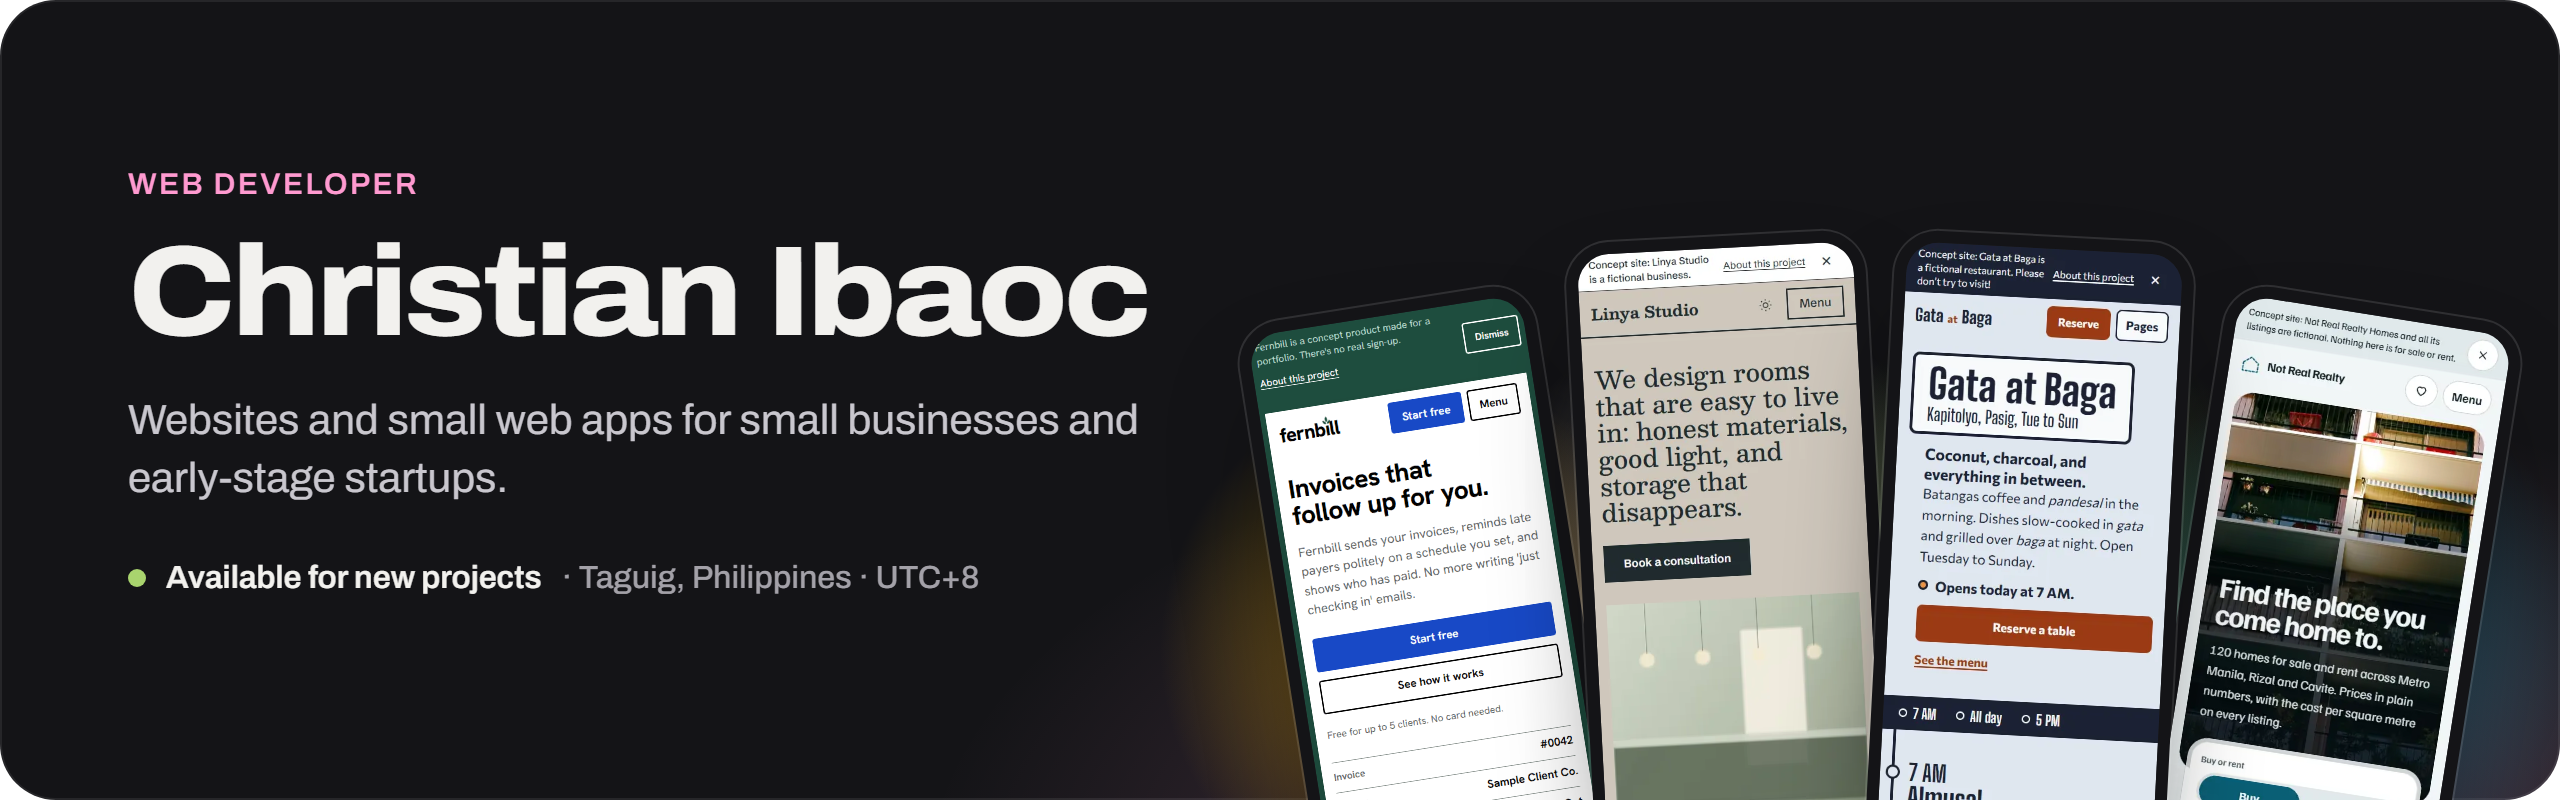
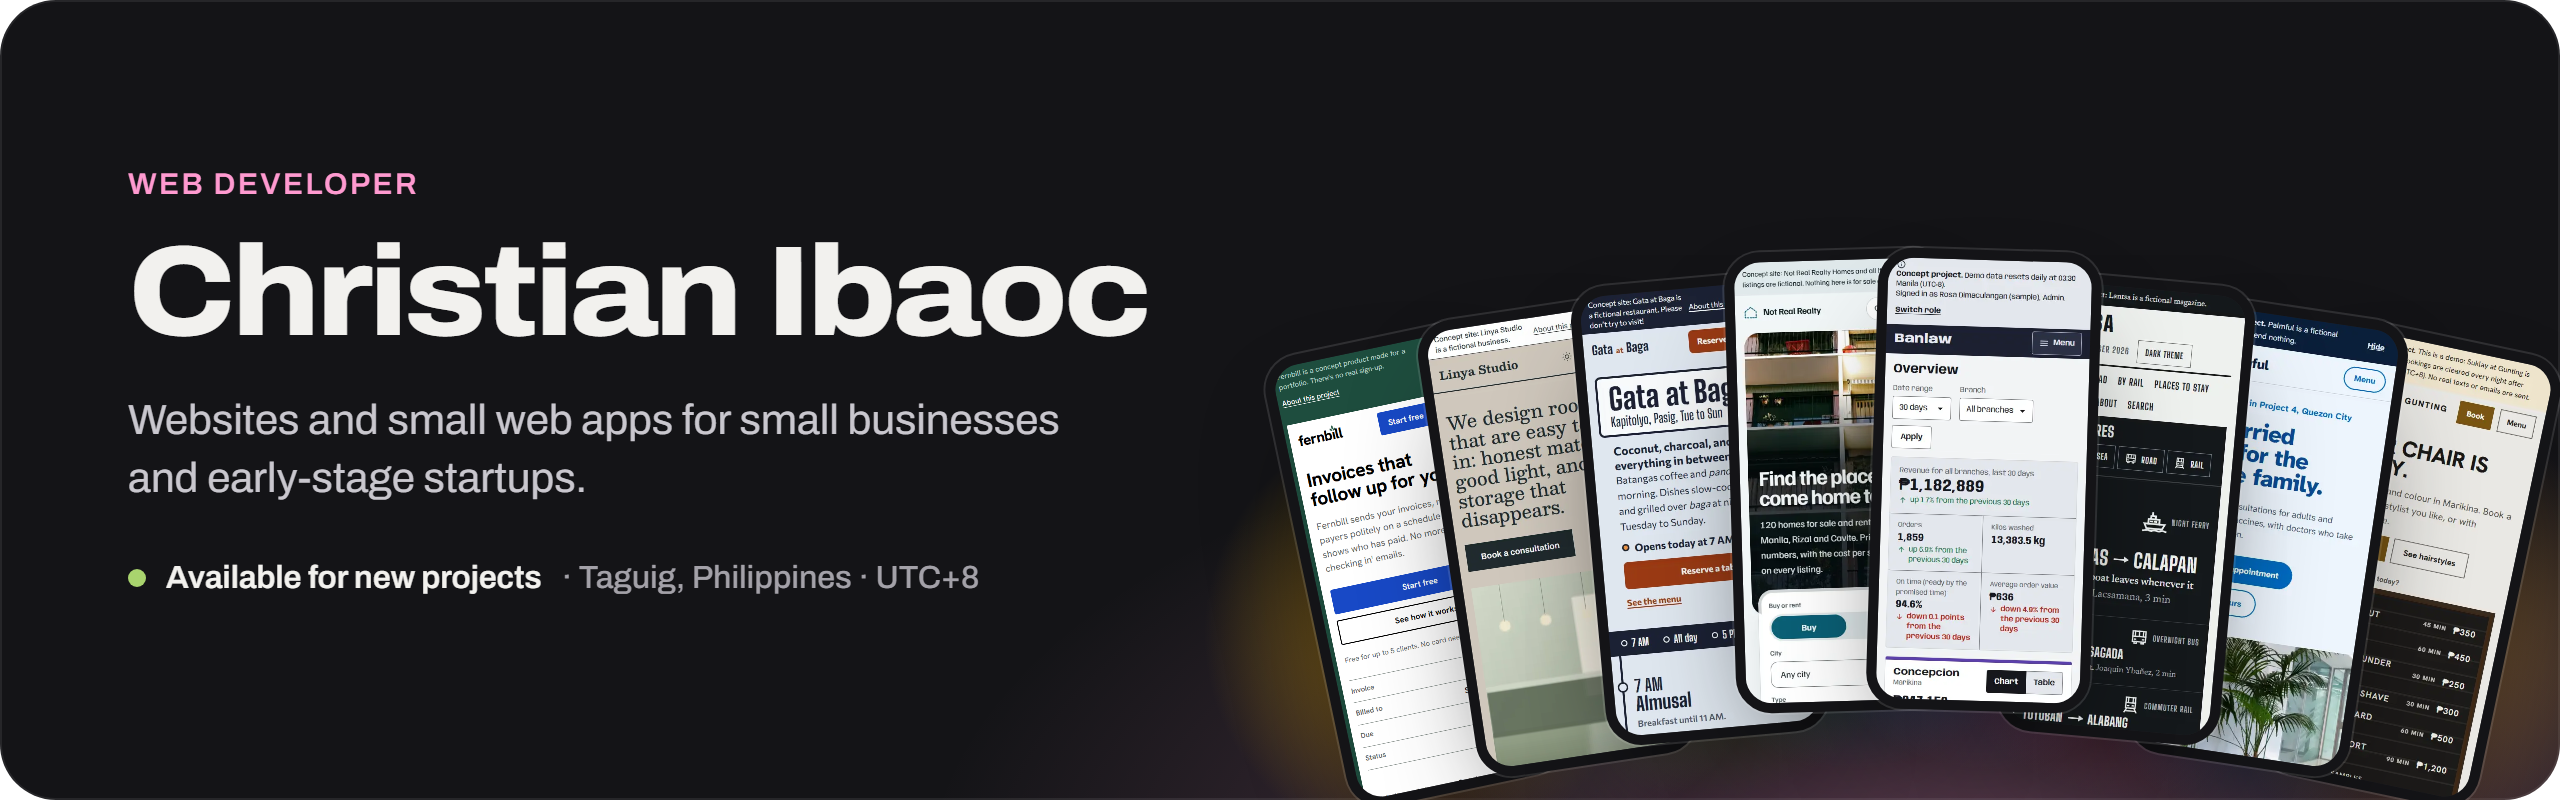
Add four new concept projects

Changed region(s): [[0.4688, 0.2812, 1.0, 1.0], [0.0312, 0.5625, 0.2188, 0.625], [0.4062, 0.5, 0.4375, 0.5625]]

diff --git a/README.md b/README.md
@@ -33,6 +33,30 @@ These are made-up businesses, not client work, and I built them with AI coding t
       Property listings app with sample homes · Next.js
     </td>
   </tr>
+  <tr>
+    <td width="50%" valign="top">
+      <a href="https://book.ibaocchristian.com"><img src="assets/suklay.png" alt="Suklay at Gunting, a concept barbershop booking app, shown on desktop and phone"></a><br>
+      <b><a href="https://book.ibaocchristian.com">Suklay at Gunting</a></b><br>
+      Barbershop and salon booking app · Next.js
+    </td>
+    <td width="50%" valign="top">
+      <a href="https://admin.ibaocchristian.com"><img src="assets/banlaw.png" alt="Banlaw, a concept admin dashboard for a laundry with sample data, shown on desktop and phone"></a><br>
+      <b><a href="https://admin.ibaocchristian.com">Banlaw</a></b><br>
+      Laundry back-office dashboard with sample data · Next.js
+    </td>
+  </tr>
+  <tr>
+    <td width="50%" valign="top">
+      <a href="https://clinic.ibaocchristian.com"><img src="assets/palmful.png" alt="Palmful, a concept family clinic website, shown on desktop and phone"></a><br>
+      <b><a href="https://clinic.ibaocchristian.com">Palmful</a></b><br>
+      Family clinic site with an appointment request · Astro
+    </td>
+    <td width="50%" valign="top">
+      <a href="https://magazine.ibaocchristian.com"><img src="assets/lantsa.png" alt="Lantsa, a concept slow-travel magazine, shown on desktop and phone"></a><br>
+      <b><a href="https://magazine.ibaocchristian.com">Lantsa</a></b><br>
+      Slow-travel magazine on a custom theme · WordPress
+    </td>
+  </tr>
 </table>
 
 ### How I work
